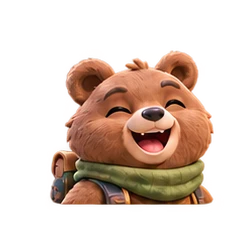
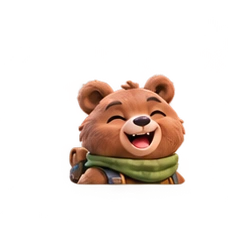
fix(arowgo): use corrected spaced glossy portraits

diff --git a/products/interfrozt/games/arowgo/docs/PROFILE-AVATARS.md b/products/interfrozt/games/arowgo/docs/PROFILE-AVATARS.md
@@ -53,3 +53,11 @@ Removed Background from the editor, including all background previews. Saving ap
 ## Profile redesign — November 2026
 
 Profile now uses a portrait-led identity card and desktop navigation rail, with compact horizontal sections on phones. Journey groups campaign totals, milestones and the equipped arrow; account/save controls are available from the identity card. Portrait editing retains explicit Save, avatar/frame pagination, and the existing persistence contract. Campaign progress accessibility labels cover all worlds. Layout checks cover 320x568, 390x844, 844x390 and 1280x800; existing profile persistence and locked-arrow checks remain in place.
+
+## Corrected glossy spaced portraits — November 2026
+
+Replaced all 30 `public/assets/avatars/adventure-01.webp` through `adventure-30.webp` from the user-supplied `Glossy Chibi Character Grid.png`. Original character order and stable IDs are retained. Each image keeps the generous spacing of its 229px source cell; no profile or currency migration is needed.
+
+Built-in imagegen background extraction produced `exec-c6eb7e6e-50ac-4f2d-8c53-9dc94a4f0add.png`, then the transparent sheet was split row-major into six columns and five rows and exported as WebP.
+
+Prompt: “Use case: background-extraction. Edit target: supplied 30 character sprite sheet. Remove ONLY the pastel background and its yellow corner glow, replacing it with true transparency. Preserve all 30 original characters, exact identities, glossy artwork, expressions, accessories, colors, position, small scale and generous spacing. Keep exactly six columns and five rows in original row-major order. Preserve full ears hats horns and busts, no added shadows or outlines. Do not enlarge or rearrange characters. Output full sheet at original 6:5 aspect ratio with transparent background suitable for cutting into individual game portraits.”
